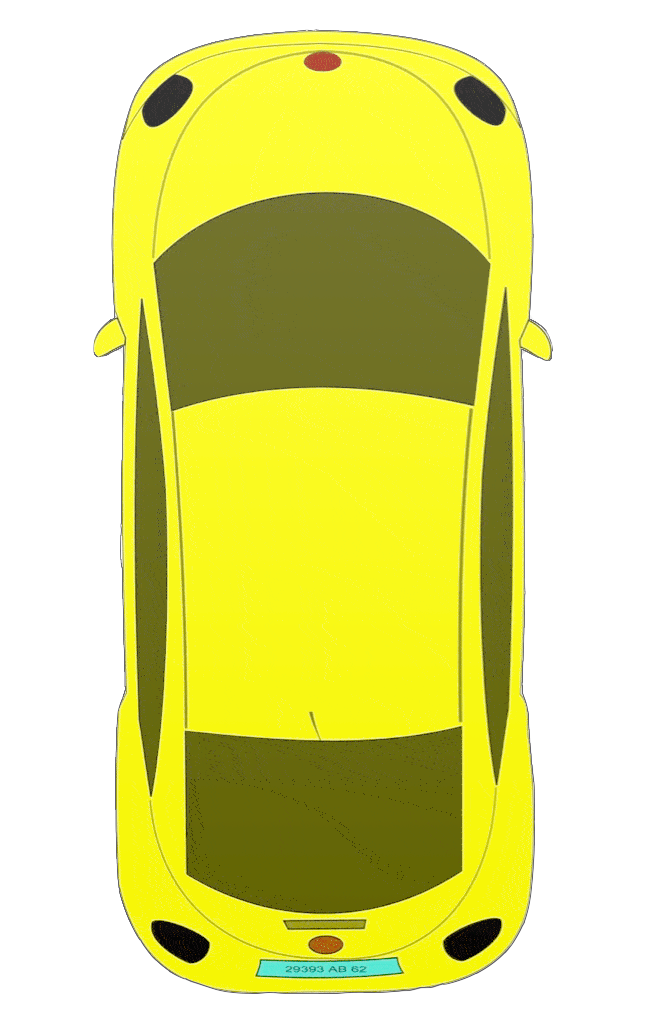
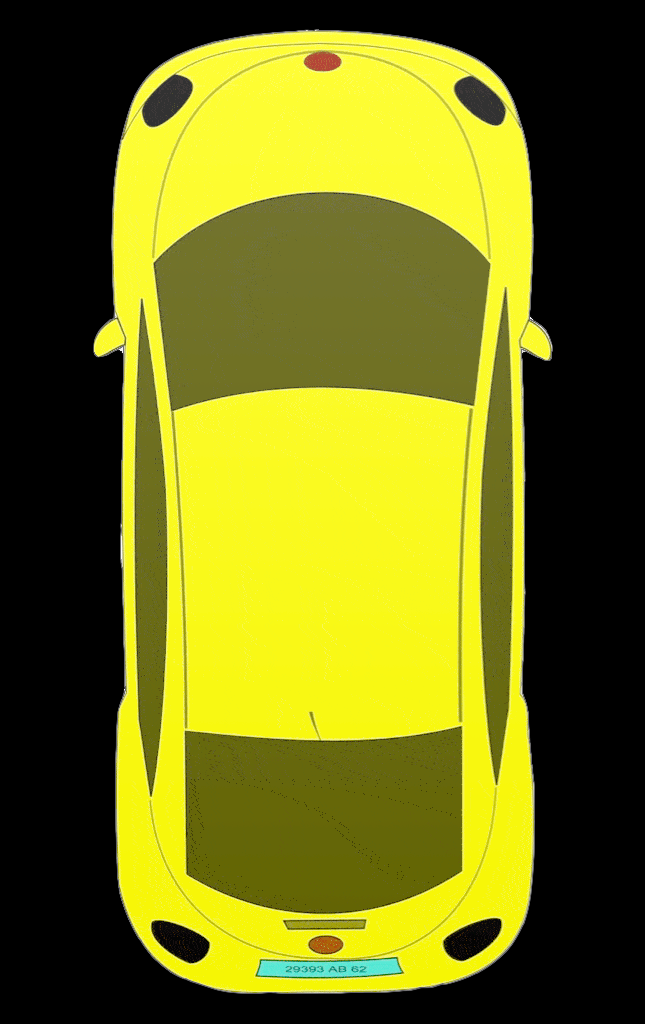
GUI Cleaning up
Main change border gone to car images

diff --git a/src/GUI.py b/src/GUI.py
@@ -28,7 +28,7 @@ class Obstacle_GUI:
 		if not self.hidden:
 			self.label.destroy()
 			self.photoImage = ImageTk.PhotoImage(self.image.resize((int(xPixels), int(yPixels)))) 
-			self.label = Label(self.master, image=self.photoImage) 
+			self.label = Label(self.master, image=self.photoImage, bd=0) 
 			self.label.place( relx = x, rely = y, anchor='center')
 	#end prep
 	def hide(self):
@@ -87,12 +87,12 @@ class Lane_GUI:
 			self.loadImage()
 			self.labelLeft.destroy()
 			self.photoImageLeft = ImageTk.PhotoImage(self.imageLeft.resize((int(xPixels), int(yPixels)))) 
-			self.labelLeft = Label(self.master, image=self.photoImageLeft) 
+			self.labelLeft = Label(self.master, image=self.photoImageLeft, bd=0) 
 			self.labelLeft.place( relx = xl, rely = yl, anchor='center')
 			
 			self.labelRight.destroy()
 			self.photoImageRight = ImageTk.PhotoImage(self.imageRight.resize((int(xPixels), int(yPixels)))) 
-			self.labelRight = Label(self.master, image=self.photoImageRight) 
+			self.labelRight = Label(self.master, image=self.photoImageRight, bd=0) 
 			self.labelRight.place( relx = xr, rely = yr, anchor='center')
 
 			
@@ -121,7 +121,7 @@ class FrontCarTracker:
 		self.master= master
 		self.ecoCar = ecoCar
 		self.text = StringVar()
-		self.label = Label(self.master, text = "Initiliazed")
+		self.label = Label(self.master, text = "Initiliazed", compound=TOP)
 		self.label.place( relx = 0.5, rely = 0, anchor='nw') 
 		self.hidden = False
 	#end  __init__
@@ -136,7 +136,7 @@ class FrontCarTracker:
 				text =str(distance)
 			#end if
 			self.label.destroy()
-			self.label = Label(self.master, text = text)
+			self.label = Label(self.master, text = text, compound=TOP)
 			self.label.place( relx = 0.5, rely = 0, anchor='nw') 
 		#end if
 	#end update
@@ -209,7 +209,7 @@ class GUI:
 		self.master=master
 		self.ecoCar = EcoCar(1, 2)
 		self.ECOCarImage = Image.open('../resources/Car2.png')
-		self.EcoCarLabel = Label(self.master) 
+		self.EcoCarLabel = Label(self.master, bd=0) 
 		self.updateECOCarImage()
 
 		#self.topBar = Image.open('../resources/topBar.png')
@@ -280,7 +280,7 @@ class GUI:
 			xPixels = int(self.ecoCar.sizeX * xRatio)
 			yPixels = int(self.ecoCar.sizeY * yRatio)
 			self.photoImage = ImageTk.PhotoImage(self.ECOCarImage.resize((int(xPixels), int(yPixels)))) 
-			self.EcoCarLabel = Label(self.master, image=self.photoImage) 
+			self.EcoCarLabel = Label(self.master, image=self.photoImage, bd=0) 
 			self.EcoCarLabel.place( relx = x, rely = y, anchor='center') 
 			#self.EcoCarLabel.pack()
 	#end setupECOCarImage
@@ -430,7 +430,7 @@ if __name__ == '__main__':
 	topbarimg = Image.open('../resources/topBar2.png')
 	topbarimg = topbarimg.resize((2000,75),Image.ANTIALIAS)
 	topb = ImageTk.PhotoImage(topbarimg)
-	labelTopBar = Label(root, image=topb)
+	labelTopBar = Label(root, image=topb, compound=BOTTOM)
 	labelTopBar.place(x=0,y=0)
 
 
